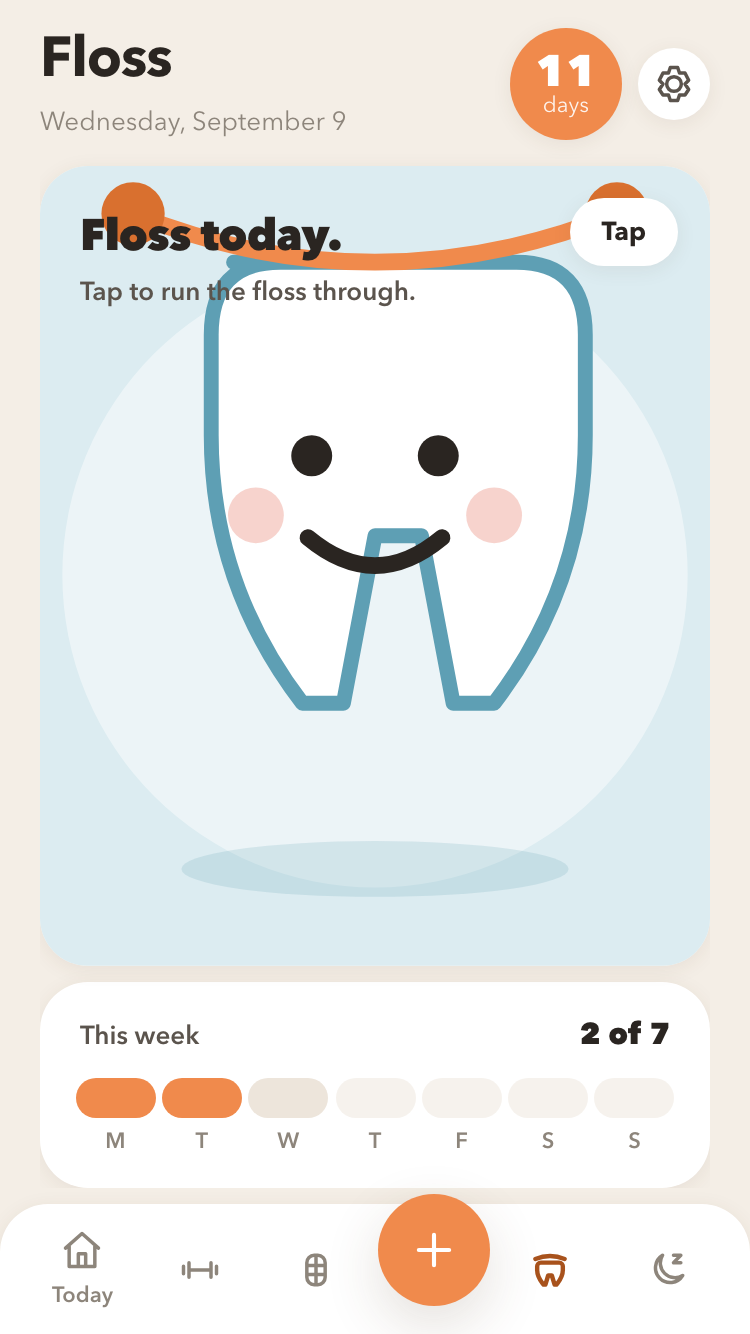
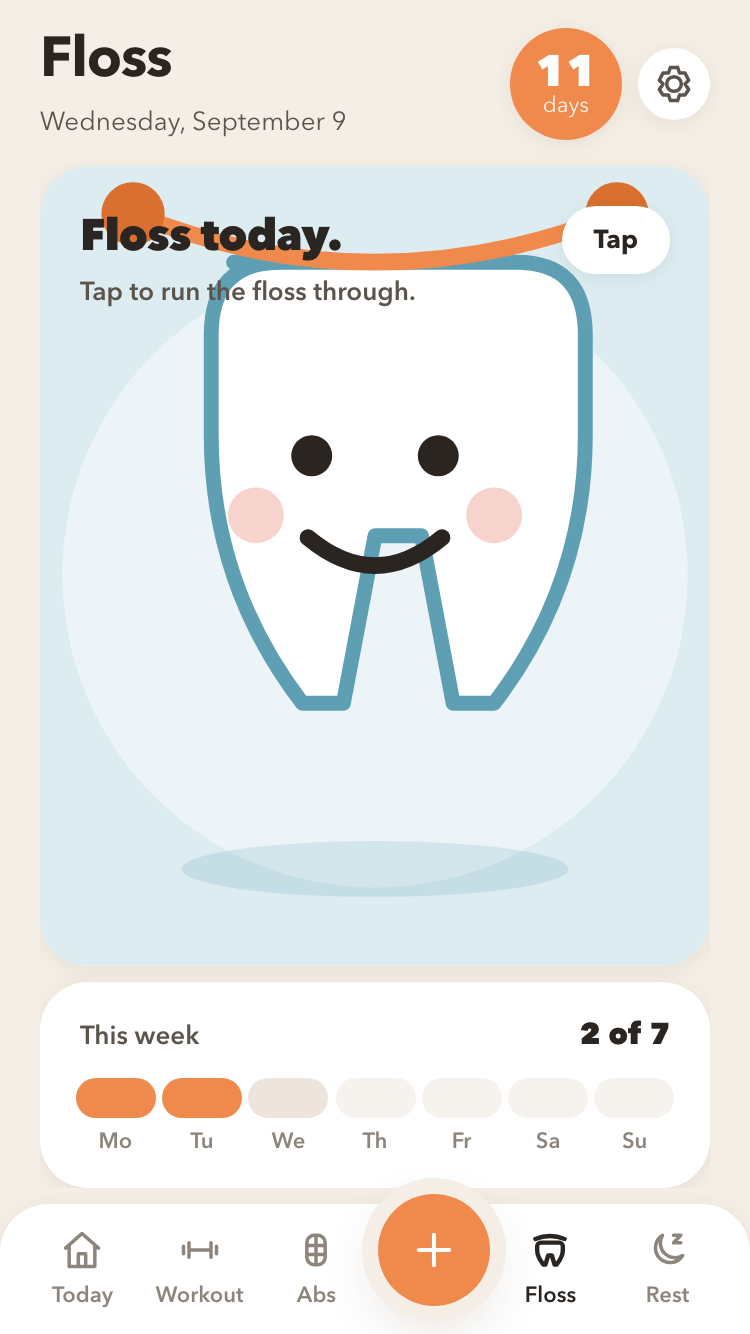
Answer the second round: connected limbs, one accent, days you can tell apart
A reviewer caught the lifter's arms floating clear of both the bar and the
shoulders; they now run from inside the torso to the grip and pass behind
the head. The week strip reads Mo Tu We Th Fr Sa Su, because M T W T F S S
repeats. Every tab carries its word again, the water plus joins the single
accent instead of introducing a lone blue, the raised button sits in a cut
of the bar, and the done badge clears the disc edge.

Claude-Session: https://claude.ai/code/session_01VWWXSJPjffuaUiM86s3vvD

diff --git a/app/globals.css b/app/globals.css
@@ -5,29 +5,29 @@ button,input,textarea,select{font:inherit}button{color:inherit;cursor:pointer;bo
 input,select,textarea{font-size:var(--t-md);min-height:var(--z-tap);width:100%;padding:var(--s-3) var(--s-4);border:var(--z-hairline) solid var(--c-line);border-radius:var(--r-md);background:var(--c-card);color:var(--c-ink)}input:focus,select:focus,textarea:focus{outline:var(--z-bw) solid var(--c-accent);outline-offset:var(--z-hairline)}label{display:block;font-size:var(--t-sm);font-weight:600;margin:var(--s-4) 0}label input,label select,label textarea{margin-top:var(--s-2)}textarea{resize:none;min-height:var(--z-bowl)}
 h1,h2,h3,p{margin:0}h1{font-size:var(--t-xxl);font-weight:700;line-height:1.1;letter-spacing:var(--ls-snug)}h2{font-size:var(--t-lg);font-weight:700;letter-spacing:var(--ls-normal)}p{font-size:var(--t-sm);line-height:1.55;color:var(--c-ink2)}small{font-size:var(--t-xs)}a{color:var(--c-accentInk)}
 .app-shell{width:min(100%,var(--z-shell));height:100dvh;max-height:var(--z-shellMax);margin:auto;background:var(--c-ground);display:flex;flex-direction:column;padding:calc(env(safe-area-inset-top) + var(--s-3)) var(--s-5) 0;position:relative;overflow:hidden}
-.topbar{display:flex;align-items:center;gap:var(--s-2);flex-shrink:0;min-height:var(--z-disc)}.topbar .gear{width:var(--z-cell);height:var(--z-cell);color:var(--c-ink2)}.topbar .gear.active{background:var(--c-ink);color:var(--c-card)}.topbar h1{overflow:hidden;text-overflow:ellipsis;white-space:nowrap;line-height:1.25}.topbar-copy{flex:1;min-width:0}.date{font-size:var(--t-sm);color:var(--c-muted);margin-top:var(--s-1)}
+.topbar{display:flex;align-items:center;gap:var(--s-2);flex-shrink:0;min-height:var(--z-disc)}.topbar .gear{width:var(--z-cell);height:var(--z-cell);color:var(--c-ink2)}.topbar .gear.active{background:var(--c-ink);color:var(--c-card)}.topbar h1{overflow:hidden;text-overflow:ellipsis;white-space:nowrap;line-height:1.25}.topbar-copy{flex:1;min-width:0}.date{font-size:var(--t-sm);color:var(--c-ink2);margin-top:var(--s-1)}
 .chip{display:inline-flex;align-items:center;gap:var(--s-1);background:var(--c-card);border-radius:var(--r-pill);padding:var(--s-2) var(--s-3) var(--s-2) var(--s-2);font-size:var(--t-sm);font-weight:600;color:var(--c-ink2);box-shadow:var(--sh-card)}.chip .mark{width:var(--s-5);height:var(--s-5)}
 .streak-badge{display:flex;flex-direction:column;align-items:center;justify-content:center;width:var(--z-disc);height:var(--z-disc);border-radius:50%;background:var(--c-accent);color:var(--c-card);line-height:1;flex-shrink:0;box-shadow:var(--sh-card)}.streak-badge strong{font-size:var(--t-xl);font-weight:800}.streak-badge span{font-size:var(--t-xs);opacity:.9}
 .zone-row{display:flex;align-items:center;justify-content:space-between;background:var(--c-accentSoft);color:var(--c-accentInk);padding:var(--s-2) var(--s-3);font-size:var(--t-sm);border-radius:var(--r-sm);flex-shrink:0;margin-top:var(--s-2)}
 .today-view,.habit-view,.progress-view,.you-view{min-height:0;flex:1;display:flex;flex-direction:column;gap:var(--s-3);padding-top:var(--s-3);overflow:hidden}
 .hero{position:relative;flex:1;min-height:var(--z-heroShort);max-height:var(--z-heroMax);border-radius:var(--r-lg);overflow:hidden;text-align:left;box-shadow:var(--sh-card);background:var(--c-butterSoft);flex-shrink:1}.hero .scene{position:absolute;inset:0;width:100%;height:100%}
 .hero-copy{position:absolute;left:var(--s-5);top:var(--s-5);right:var(--z-thumb);display:flex;flex-direction:column;gap:var(--s-1);color:var(--c-ink)}.hero-copy strong{font-size:var(--t-xl);font-weight:800;letter-spacing:var(--ls-snug)}.hero-copy span{font-size:var(--t-sm);font-weight:600;color:var(--c-ink2)}.hero.is-complete .hero-copy strong{font-size:var(--t-xxl)}
-.hero-tag{position:absolute;right:var(--s-4);top:var(--s-4);display:inline-flex;align-items:center;gap:var(--s-1);background:var(--c-card);color:var(--c-ink);border-radius:var(--r-pill);padding:var(--s-2) var(--s-3) var(--s-2) var(--s-2);font-size:var(--t-sm);font-weight:700;box-shadow:var(--sh-card)}.hero-tag .mark{width:var(--s-5);height:var(--s-5)}.hero.is-done .hero-tag{background:var(--c-accent);color:var(--c-card)}
+.hero-tag{position:absolute;right:var(--s-5);top:var(--s-5);display:inline-flex;align-items:center;gap:var(--s-1);background:var(--c-card);color:var(--c-ink);border-radius:var(--r-pill);padding:var(--s-2) var(--s-3) var(--s-2) var(--s-2);font-size:var(--t-sm);font-weight:700;box-shadow:var(--sh-card)}.hero-tag .mark{width:var(--s-5);height:var(--s-5)}.hero.is-done .hero-tag{background:var(--c-accent);color:var(--c-card)}
 .hero-back{position:absolute;left:var(--s-4);bottom:var(--s-4);background:var(--c-card);border-radius:var(--r-pill);padding:var(--s-2) var(--s-3);font-size:var(--t-sm);font-weight:700}
 .walker{transition:transform 1.6s cubic-bezier(.4,0,.2,1)}.walker .pulse{transform-box:fill-box;transform-origin:center;animation:pulse 2.4s ease-out infinite}.moving .walker circle:not(.pulse){transform-box:fill-box;animation:hop .5s ease-in-out infinite}
-.discs{display:grid;grid-template-columns:repeat(4,minmax(0,1fr));gap:var(--s-2);flex-shrink:0}.disc-habit{display:flex;flex-direction:column;align-items:center;gap:var(--s-2);font-size:var(--t-sm);font-weight:600;color:var(--c-ink2)}.disc-art{position:relative;display:grid;place-items:center;width:var(--z-disc);height:var(--z-disc);border-radius:50%;background:var(--c-card);box-shadow:var(--sh-card);transition:background .25s,transform .25s}.disc-habit:active .disc-art{transform:scale(.94)}.disc-art .mark{width:var(--s-7);height:var(--s-7)}.disc-check{position:absolute;right:calc(-1 * var(--s-1));bottom:calc(-1 * var(--s-1));display:grid;place-items:center;width:var(--s-5);height:var(--s-5);border-radius:50%;background:var(--c-accent);color:var(--c-card);border:var(--z-bw) solid var(--c-ground);opacity:0;transform:scale(.4);transition:opacity .2s,transform .25s}.is-done .disc-check{opacity:1;transform:scale(1)}.disc-habit.is-done{color:var(--c-ink)}.disc-habit.is-done .disc-art{background:var(--c-accentSoft)}.disc-habit.rest.is-done .disc-art{background:var(--c-lilacSoft)}.disc-habit.rest.is-done .disc-check{background:var(--c-lilac)}.disc-habit:disabled{opacity:.5}
-.pair{display:grid;grid-template-columns:1fr 1.25fr;gap:var(--s-3);flex:0 0 auto}.card-copy{display:flex;flex-direction:column;gap:var(--s-1);min-height:0}
+.discs{display:grid;grid-template-columns:repeat(4,minmax(0,1fr));gap:var(--s-2);flex-shrink:0}.disc-habit{display:flex;flex-direction:column;align-items:center;gap:var(--s-2);font-size:var(--t-sm);font-weight:600;color:var(--c-ink2)}.disc-art{position:relative;display:grid;place-items:center;width:var(--z-disc);height:var(--z-disc);border-radius:50%;background:var(--c-card);box-shadow:var(--sh-card);transition:background .25s,transform .25s}.disc-habit:active .disc-art{transform:scale(.94)}.disc-art .mark{width:var(--s-7);height:var(--s-7)}.disc-check{position:absolute;right:calc(-1 * var(--s-2));bottom:calc(-1 * var(--s-2));display:grid;place-items:center;width:var(--s-5);height:var(--s-5);border-radius:50%;background:var(--c-accent);color:var(--c-card);border:var(--z-bw) solid var(--c-ground);opacity:0;transform:scale(.4);transition:opacity .2s,transform .25s}.is-done .disc-check{opacity:1;transform:scale(1)}.disc-habit.is-done{color:var(--c-ink)}.disc-habit.is-done .disc-art{background:var(--c-accentSoft)}.disc-habit.rest.is-done .disc-art{background:var(--c-lilacSoft)}.disc-habit.rest.is-done .disc-check{background:var(--c-lilac)}.disc-habit:disabled{opacity:.5}
+.pair{display:grid;grid-template-columns:1fr 1.18fr;gap:var(--s-3);flex:0 0 auto}.card-copy{display:flex;flex-direction:column;gap:var(--s-1);min-height:0}
 .card{background:var(--c-card);border-radius:var(--r-lg);box-shadow:var(--sh-card)}
-.pair .card{position:relative;overflow:hidden;text-align:left;padding:var(--s-4);display:flex;flex-direction:column;gap:var(--s-1)}.card-main{display:flex;flex-direction:column;gap:var(--s-1);text-align:left;flex:1;min-height:0}
+.pair .card{position:relative;overflow:hidden;text-align:left;padding:var(--s-4);display:flex;flex-direction:column;gap:var(--s-1)}.pair>*{min-height:0}.card-main{display:flex;flex-direction:column;gap:var(--s-1);text-align:left;flex:1;min-height:0}
 .card-art{display:grid;place-items:center;flex:1 1 var(--z-tileArt);min-height:var(--z-disc);max-height:var(--z-tileArt);border-radius:var(--r-md);margin-bottom:var(--s-2)}.water .card-art{background:var(--c-skySoft)}.food .card-art{background:var(--c-accentSoft)}.glass{width:auto;height:100%;max-height:var(--z-tileArt);padding:var(--s-1) 0}.bowl{width:auto;height:100%;max-height:var(--z-tileArt);padding:var(--s-1) 0}
 .card-title{font-size:var(--t-md);font-weight:700}.card-value{font-size:var(--t-sm);color:var(--c-muted);margin-bottom:var(--s-1)}.card-value strong{display:block;font-size:var(--t-xl);font-weight:800;color:var(--c-ink);letter-spacing:var(--ls-snug)}.pair .is-done .card-title{color:var(--c-sageDeep)}
-.card-steps{display:flex;gap:var(--s-2);justify-content:space-between;margin-top:auto;padding-top:var(--s-2)}.card-cta{display:flex;align-items:center;justify-content:center;gap:var(--s-1);margin-top:auto;height:var(--z-minus);border-radius:var(--r-pill);background:var(--c-accentSoft);color:var(--c-accentInk);font-size:var(--t-sm);font-weight:700}.card-step{display:grid;place-items:center;flex:1;height:var(--z-minus);border-radius:var(--r-pill);background:var(--c-ground);color:var(--c-ink2)}.card-step.is-add{background:var(--c-sky);color:var(--c-card)}
+.card-steps{display:flex;gap:var(--s-2);justify-content:space-between;margin-top:auto;padding-top:var(--s-3);height:calc(var(--z-minus) + var(--s-3))}.card-cta{display:flex;align-items:center;justify-content:center;gap:var(--s-1);margin-top:auto;flex-shrink:0;height:var(--z-minus);border-radius:var(--r-pill);background:var(--c-accentSoft);color:var(--c-accentInk);font-size:var(--t-sm);font-weight:700}.card-step{display:grid;place-items:center;flex:1;height:var(--z-minus);border-radius:var(--r-pill);background:var(--c-ground);color:var(--c-ink2)}.card-step.is-add{background:var(--c-accent);color:var(--c-card)}
 .liquid{transition:transform .9s cubic-bezier(.4,0,.2,1)}
 .meter{display:block;margin-top:var(--s-1)}.meter-head{display:flex;justify-content:space-between;font-size:var(--t-xs);font-weight:600;color:var(--c-ink2);margin-bottom:var(--s-1)}.meter-bar{display:block;position:relative;height:var(--z-meter);border-radius:var(--r-pill);background:var(--c-ground);overflow:hidden}.meter-fill{position:absolute;left:0;top:0;bottom:0;border-radius:var(--r-pill);background:var(--c-accent);transition:width .7s cubic-bezier(.4,0,.2,1)}.meter-range{position:absolute;top:0;bottom:0;background:var(--c-sageSoft)}.meter.is-done .meter-fill{background:var(--c-sage)}
 .home-footer{margin-top:auto;display:flex;align-items:center;justify-content:space-between;font-size:var(--t-sm);color:var(--c-muted);padding:0 var(--s-1);flex-shrink:0}
 .text-button{font-size:var(--t-sm);font-weight:600;color:var(--c-accentInk);padding:var(--s-2) var(--s-1);min-height:var(--s-7)}
-.bottom-nav{display:flex;align-items:center;justify-content:space-around;flex-shrink:0;background:var(--c-card);margin:var(--s-2) calc(-1 * var(--s-5)) 0;padding:var(--s-2) var(--s-3) calc(env(safe-area-inset-bottom) + var(--s-2));border-radius:var(--r-lg) var(--r-lg) 0 0;box-shadow:var(--sh-card);min-height:var(--z-nav)}.bottom-nav .icon-tab{padding:var(--s-3) var(--s-2)}.bottom-nav .icon-tab.active{color:var(--c-accentInk)}.bottom-nav button{display:flex;flex-direction:column;align-items:center;gap:var(--s-1);min-width:var(--z-disc);color:var(--c-muted);font-size:var(--t-xs);font-weight:600;padding:var(--s-1)}.bottom-nav button.active{color:var(--c-ink)}.bottom-nav button.active svg{stroke-width:2.4}
-.nav-add{display:grid;place-items:center;width:var(--z-add);height:var(--z-add);border-radius:50%;background:var(--c-accent);color:var(--c-card);box-shadow:var(--sh-float);margin-top:calc(-1 * var(--s-5))}.bottom-nav .nav-add{display:grid;place-items:center;padding:0;min-width:0;color:var(--c-card)}.bottom-nav .nav-add svg{display:block}
+.bottom-nav{display:flex;align-items:center;justify-content:space-around;flex-shrink:0;background:var(--c-card);margin:var(--s-2) calc(-1 * var(--s-5)) 0;padding:var(--s-2) var(--s-3) calc(env(safe-area-inset-bottom) + var(--s-2));border-radius:var(--r-lg) var(--r-lg) 0 0;box-shadow:var(--sh-card);min-height:var(--z-nav)}.bottom-nav button{display:flex;flex-direction:column;align-items:center;gap:var(--s-1);min-width:var(--z-disc);color:var(--c-muted);font-size:var(--t-xs);font-weight:600;padding:var(--s-1)}.bottom-nav button.active{color:var(--c-ink)}.bottom-nav button.active svg{stroke-width:2.4}
+.nav-add{display:grid;place-items:center;width:var(--z-add);height:var(--z-add);border-radius:50%;background:var(--c-accent);color:var(--c-card);box-shadow:0 0 0 var(--s-2) var(--c-ground),var(--sh-float);margin-top:calc(-1 * var(--s-5))}.bottom-nav .nav-add{display:grid;place-items:center;padding:0;min-width:0;color:var(--c-card)}.bottom-nav .nav-add svg{display:block}
 .progress-view,.you-view{padding-bottom:var(--s-2)}.progress-view .streak-card{flex:1 1 auto;min-height:0;display:flex;flex-direction:column;overflow:hidden}.progress-view .calendar-body{flex:1;min-height:0;display:flex;flex-direction:column;justify-content:center}.you-view{gap:var(--s-4);justify-content:flex-start}
 .progress-hero{position:relative;flex:0 1 var(--z-sceneShort);min-height:var(--z-bars);border-radius:var(--r-lg);overflow:hidden;flex-shrink:0;box-shadow:var(--sh-card)}.progress-hero .scene{position:absolute;inset:0;width:100%;height:100%}.progress-hero::after{content:'';position:absolute;inset:0;background:linear-gradient(100deg,var(--c-card) 4%,transparent 62%);opacity:.72;pointer-events:none}.progress-hero .big-number{position:absolute;left:var(--s-5);top:var(--s-4);text-align:left;z-index:1}.progress-hero .big-number span{margin-top:var(--s-1)}.big-number{text-align:center}.big-number strong{display:block;font-size:var(--t-hero);font-weight:800;line-height:1;letter-spacing:var(--ls-tight)}.big-number span{display:block;margin-top:var(--s-2);font-size:var(--t-sm);color:var(--c-ink2)}
 .streak-card,.trend-card{padding:var(--s-5)}.trend-card p{font-size:var(--t-xs);color:var(--c-muted);margin-top:var(--s-1)}
@@ -87,7 +87,7 @@ h1,h2,h3,p{margin:0}h1{font-size:var(--t-xxl);font-weight:700;line-height:1.1;le
 .stage-copy strong{font-size:var(--t-xl);font-weight:800;letter-spacing:var(--ls-snug);color:var(--c-ink)}
 .stage-copy span{font-size:var(--t-sm);font-weight:600;color:var(--c-ink2)}
 .stage.rest .stage-copy strong,.stage.rest .stage-copy span{color:var(--c-card)}
-.stage-tag{position:absolute;right:var(--s-4);top:var(--s-4);display:inline-flex;align-items:center;gap:var(--s-1);background:var(--c-card);color:var(--c-ink);border-radius:var(--r-pill);padding:var(--s-2) var(--s-4);font-size:var(--t-sm);font-weight:700;box-shadow:var(--sh-card)}
+.stage-tag{position:absolute;right:var(--s-5);top:var(--s-5);display:inline-flex;align-items:center;gap:var(--s-1);background:var(--c-card);color:var(--c-ink);border-radius:var(--r-pill);padding:var(--s-2) var(--s-4);font-size:var(--t-sm);font-weight:700;box-shadow:var(--sh-card)}
 .stage.is-done .stage-tag{background:var(--c-accent);color:var(--c-card)}.stage.rest.is-done .stage-tag{background:var(--c-lilac)}
 .stage:disabled{opacity:1}.stage:disabled .stage-tag{background:var(--c-ground2);color:var(--c-muted)}
 .week-strip{flex-shrink:0;background:var(--c-card);border-radius:var(--r-lg);box-shadow:var(--sh-card);padding:var(--s-4) var(--s-5)}

diff --git a/components/App.tsx b/components/App.tsx
@@ -11,7 +11,7 @@ type Change=Operation extends infer O?O extends Operation?Omit<O,'id'|'at'|'day'
 const todayZone=()=>Intl.DateTimeFormat().resolvedOptions().timeZone;
 const format=(n:number)=>Math.round(n).toLocaleString();
 const litres=(ml:number)=>(ml/1000).toFixed(2).replace(/\.?0+$/,'');
-const weekdays=['Mon','Tue','Wed','Thu','Fri','Sat','Sun'];
+const weekdays=['Mon','Tue','Wed','Thu','Fri','Sat','Sun'];const weekInitials=['Mo','Tu','We','Th','Fr','Sa','Su'];
 export default function App(){
  const store=useStore();const {state}=store;
  const [now,setNow]=useState(()=>new Date());const [tab,setTab]=useState('today');const [selected,setSelected]=useState<string|null>(null);
@@ -64,7 +64,7 @@ export default function App(){
   {tab==='today'?<section className="today-view">
    <button className={`hero ${done.walk?'is-done':''} ${pulse.walk?'moving':''} ${complete?'is-complete':''}`} aria-label={done.walk?'Undo walk':'Log walk'} aria-pressed={done.walk} onClick={()=>habitTap('walk')}>
     <Hills phase={day.rest?'night':phase} walked={done.walk} progress={count/habits.length} celebrate={complete&&!selected}/>
-    <span className="hero-copy"><strong>{complete&&!selected?'Every one.':day.rest?'Resting today.':done.walk?'Walked.':'A walk today.'}</strong><span>{complete&&!selected?`All ${habits.length} habits, all done.`:day.rest?'The streak stays.':done.walk?'Tap again to undo.':'Tap when you\u2019re back.'}</span></span>
+    <span className="hero-copy"><strong>{complete&&!selected?'Every one.':day.rest?'Resting today.':done.walk?'Walked.':'A walk today.'}</strong><span>{complete&&!selected?`All ${habits.length} habits, all done.`:day.rest?'The streak stays.':`${count} of ${habits.length} done today`}</span></span>
     <span className="hero-tag">{done.walk?<><Icon name="check" size={14}/>Walk</>:<><Mark name="walk"/>Walk</>}</span>
     {selected&&<span className="hero-back">{`${count} of ${habits.length}`}</span>}
    </button>
@@ -96,9 +96,9 @@ export default function App(){
     onToggle={()=>tab==='rest'?restTap():habitTap(tab as Habit)}/>}
   {toast&&<div className="toast" role="status"><span>{toast.text}</span>{toast.undo&&<button onClick={()=>{toast.undo!();setToast(null);}}>Undo</button>}</div>}
   <nav className="bottom-nav" aria-label="Main navigation">
-   {[['today','home','Today'],['workout','workout','Workout'],['abs','abs','Abs']].map(([value,icon,label])=><button key={value} className={`${tab===value?'active':''} ${value==='today'?'':'icon-tab'}`} aria-label={label} aria-current={tab===value?'page':undefined} onClick={()=>{setTab(value);setSelected(null);}}><Icon name={icon}/>{value==='today'&&<span>{label}</span>}</button>)}
+   {[['today','home','Today'],['workout','workout','Workout'],['abs','abs','Abs']].map(([value,icon,label])=><button key={value} className={tab===value?'active':''} aria-label={label} aria-current={tab===value?'page':undefined} onClick={()=>{setTab(value);setSelected(null);}}><Icon name={icon}/><span>{label}</span></button>)}
    <button className="nav-add" aria-label="Log a meal" onClick={()=>{setEditMeal(null);setPhoto(null);setModal('meal');}}><Icon name="plus" size={26}/></button>
-   {[['floss','floss','Floss'],['rest','rest','Rest']].map(([value,icon,label])=><button key={value} className={`icon-tab ${tab===value?'active':''}`} aria-label={label} aria-current={tab===value?'page':undefined} onClick={()=>{setTab(value);setSelected(null);}}><Icon name={icon}/></button>)}
+   {[['floss','floss','Floss'],['rest','rest','Rest']].map(([value,icon,label])=><button key={value} className={tab===value?'active':''} aria-label={label} aria-current={tab===value?'page':undefined} onClick={()=>{setTab(value);setSelected(null);}}><Icon name={icon}/><span>{label}</span></button>)}
   </nav>
   <input className="sr-only" ref={file} aria-label="Photograph a meal" type="file" accept="image/*" capture="environment" onChange={e=>{const f=e.target.files?.[0];if(f){setPhoto(f);setEditMeal(null);setModal('meal');}e.target.value='';}}/>
   {modal&&<Sheet title={modal==='camera'?'Photo':modal==='meal'?'Food':modal==='meals'?'Today’s food':modal==='rest'?'Rest day':modal==='rescue'?'Rescue this day':modal==='weight'?'Weigh in':modal==='targets'?'Daily targets':modal==='setup'?'Your details':modal==='zone'?'Timezone':modal==='lock'?'Lock this device?':'How targets are set'} onClose={()=>{setModal(null);setPhoto(null);setEditMeal(null);}}>
@@ -124,7 +124,7 @@ function HabitTab({habit,done,active,rests,week,past,onToggle}:{habit:'workout'|
   </button>
   <div className="week-strip">
    <span className="week-strip-head">This week<b>{kept} of 7</b></span>
-   <div className="week-dots">{week.map(d=><span key={d.day} className={`week-dot ${d.done?'is-done':''} ${d.future?'is-future':''}`}><i/><small>{weekdays[(dayDiff(weekStart(d.day),d.day)+7)%7].slice(0,1)}</small></span>)}</div>
+   <div className="week-dots">{week.map(d=><span key={d.day} className={`week-dot ${d.done?'is-done':''} ${d.future?'is-future':''}`}><i/><small>{weekInitials[(dayDiff(weekStart(d.day),d.day)+7)%7]}</small></span>)}</div>
   </div>
  </section>;
 }
@@ -186,8 +186,8 @@ function Progress({state,today,onOpen,onRescue}:{state:State;today:string;onOpen
    <div className="segmented">{[['week','Week'],['month','Month'],['trends','Trends']].map(([value,text])=><button key={value} className={mode===value?'active':''} onClick={()=>setMode(value)}>{text}</button>)}</div>
    {mode==='trends'?<Trends state={state} today={today}/>:<>
    <div className="calendar-heading"><button aria-label="Previous period" onClick={()=>setAnchor(addDays(first,-1))}><Icon name="back" size={18}/></button><h2>{heading}</h2><button aria-label="Next period" disabled={entries.at(-1)!>=today} onClick={()=>setAnchor(addDays(entries.at(-1)!,1))}><Icon name="arrow" size={18}/></button></div>
-   <div className="calendar-body">{mode==='week'?<div className="bars">{entries.map((d,i)=>{const n=d>today?0:Object.values(completion(state.days[d])).filter(Boolean).length;const kept=isKept(state.days[d]);return <button key={d} disabled={d>today} aria-label={label(d)} className={`bar ${d===today?'is-today':''} ${kept?'is-kept':''} ${d>today?'is-future':''} ${detail===d?'selected':''}`} onClick={()=>setDetail(d)}><span className="bar-track">{n>0&&<span className="bar-fill" style={{height:`${Math.max(16,n/habits.length*100)}%`}}><b>{n}</b></span>}</span><small>{weekdays[i].slice(0,1)}</small></button>;})}</div>
-   :<div className="calendar-grid">{['M','T','W','T','F','S','S'].map((d,i)=><span key={i}>{d}</span>)}{Array.from({length:(new Date(first+'T12:00Z').getUTCDay()+6)%7},(_,i)=><i key={'blank'+i}/>)}{entries.map(d=><button key={d} disabled={d>today} aria-label={label(d)} className={`${detail===d?'selected':''} ${isKept(state.days[d])?'kept':d<today&&d>=start?'broken':''} ${d===today?'today':''}`} onClick={()=>setDetail(d)}><strong>{Number(d.slice(-2))}</strong><small>{state.days[d]?.rescued?'\u2661':state.days[d]?.rest?'\u263e':''}{state.days[d]?.backfilled?'*':''}</small></button>)}</div>}</div>
+   <div className="calendar-body">{mode==='week'?<div className="bars">{entries.map((d,i)=>{const n=d>today?0:Object.values(completion(state.days[d])).filter(Boolean).length;const kept=isKept(state.days[d]);return <button key={d} disabled={d>today} aria-label={label(d)} className={`bar ${d===today?'is-today':''} ${kept?'is-kept':''} ${d>today?'is-future':''} ${detail===d?'selected':''}`} onClick={()=>setDetail(d)}><span className="bar-track">{n>0&&<span className="bar-fill" style={{height:`${Math.max(16,n/habits.length*100)}%`}}><b>{n}</b></span>}</span><small>{weekInitials[i]}</small></button>;})}</div>
+   :<div className="calendar-grid">{weekInitials.map((d,i)=><span key={i}>{d}</span>)}{Array.from({length:(new Date(first+'T12:00Z').getUTCDay()+6)%7},(_,i)=><i key={'blank'+i}/>)}{entries.map(d=><button key={d} disabled={d>today} aria-label={label(d)} className={`${detail===d?'selected':''} ${isKept(state.days[d])?'kept':d<today&&d>=start?'broken':''} ${d===today?'today':''}`} onClick={()=>setDetail(d)}><strong>{Number(d.slice(-2))}</strong><small>{state.days[d]?.rescued?'\u2661':state.days[d]?.rest?'\u263e':''}{state.days[d]?.backfilled?'*':''}</small></button>)}</div>}</div>
    <div className="day-detail"><p className="date">{new Intl.DateTimeFormat('en',{weekday:'long',month:'long',day:'numeric',timeZone:'UTC'}).format(new Date(detail+'T12:00:00Z'))}{entry?.backfilled?' \u00b7 backfilled':''}{entry?.rescued?' \u00b7 rescued':''}</p><h2>{isComplete(entry)?'Complete.':entry?.rest?'Rest day.':entry?.rescued?'Rescued.':detail===today?'In progress.':!tracked?'Before you started.':'A day to rescue.'}</h2><p>{!tracked?'Backfill it if you like.':!isComplete(entry)?`${detail===today?'Left today':'Not checked'}: ${missing(entry).map(h=>names[h]).join(', ')}.`:`All ${habits.length} habits.`}</p></div>
    <div className="detail-actions"><button className="primary" onClick={()=>onOpen(detail)}>{detail===today?'Open today':'Backfill this day'}</button>{detail<today&&!isKept(entry)&&<button className="secondary" onClick={()=>onRescue(detail)}>Rescue day</button>}</div>
    </>}

diff --git a/components/Scenes.tsx b/components/Scenes.tsx
@@ -72,7 +72,7 @@ export function Bowl({full=false,eating=false,level=0}:{full?:boolean;eating?:bo
 export function Mark({name}:{name:'workout'|'abs'|'floss'|'walk'|'water'|'food'|'rest'|'rescue'|'scale'}){
  const marks={
   workout:<><rect x="8" y="20" width="32" height="8" rx="4" fill={c.accentDeep}/><rect x="4" y="14" width="8" height="20" rx="3" fill={c.ink2}/><rect x="36" y="14" width="8" height="20" rx="3" fill={c.ink2}/><rect x="0" y="18" width="5" height="12" rx="2.5" fill={c.ink2}/><rect x="43" y="18" width="5" height="12" rx="2.5" fill={c.ink2}/></>,
-  abs:<><rect x="6" y="30" width="36" height="8" rx="4" fill={c.accentSoft}/><path d="M14 30q2-16 12-16t12 16" fill={c.accent}/><circle cx="26" cy="12" r="6" fill={c.ink2}/><path d="M20 30h12" stroke={c.card} strokeWidth="2" strokeLinecap="round"/></>,
+  abs:<><rect x="2" y="34" width="44" height="8" rx="4" fill={c.accentSoft}/><path d="M40 34q6-18-6-18H22q-8 0-8 8v10z" fill={c.accent}/><circle cx="12" cy="22" r="8" fill={c.ink2}/><path d="M28 16q8 2 12 10" stroke={c.accentDeep} strokeWidth="4" strokeLinecap="round" fill="none"/></>,
   floss:<><path d="M14 8h20q6 0 6 6v10q0 12-8 22h-3l-3-14h-4l-3 14h-3q-8-10-8-22V14q0-6 6-6z" fill={c.accentSoft} stroke={c.ink2} strokeWidth="2"/><path d="M6 30c8-6 28-6 36 0" stroke={c.accent} strokeWidth="2.5" strokeLinecap="round" fill="none"/><circle cx="6" cy="30" r="3.5" fill={c.accent}/><circle cx="42" cy="30" r="3.5" fill={c.accent}/></>,
   walk:<><path d="M12 30q0-8 6-8t6 8v6q0 6-6 6t-6-6z" fill={c.accent}/><path d="M26 16q0-8 6-8t6 8v6q0 6-6 6t-6-6z" fill={c.accentDeep}/><circle cx="13" cy="17" r="2.5" fill={c.accent}/><circle cx="18" cy="15" r="2.5" fill={c.accent}/><circle cx="27" cy="3" r="2.5" fill={c.accentDeep}/><circle cx="32" cy="1.5" r="2.5" fill={c.accentDeep}/></>,
   water:<path d="M24 4S8 22 8 31a16 16 0 0 0 32 0c0-9-16-27-16-27z" fill={c.sky}/>,
@@ -103,18 +103,18 @@ const Plant=({x,y,s=1}:{x:number;y:number;s?:number})=><g transform={`translate(
 export function Gym({done=false,active=false}:{done?:boolean;active?:boolean}){
  return <svg className={`scene gym ${done?'is-done':''} ${active?'is-active':''}`} viewBox="0 0 360 640" preserveAspectRatio="xMidYMax slice" aria-hidden="true">
   <rect width="360" height="640" fill={c.butterSoft}/>
-  <Window x={232} y={172}/>
+  <g className="gym-clock"><circle cx="180" cy="150" r="38" fill={c.card}/><circle cx="180" cy="150" r="38" fill="none" stroke={c.cocoaSoft} strokeWidth="7"/><path d="M180 128v24l16 10" stroke={c.ink2} strokeWidth="6" strokeLinecap="round" strokeLinejoin="round" fill="none"/></g>
   <rect x="0" y="556" width="360" height="84" fill={c.cocoaSoft}/><rect x="0" y="556" width="360" height="8" fill={c.cocoa} opacity=".2"/>
   <Plant x={44} y={556} s={1.05}/>
   <g opacity=".9"><rect x="288" y="524" width="54" height="12" rx="6" fill={c.cocoa} opacity=".5"/><circle cx="292" cy="530" r="14" fill={c.ink2}/><circle cx="338" cy="530" r="14" fill={c.ink2}/></g>
   <ellipse cx="180" cy="558" rx="78" ry="11" fill={c.cocoa} opacity=".2"/>
   <g className="lifter">
-   <rect x="148" y="466" width="22" height="92" rx="11" fill={c.ink2}/><rect x="190" y="466" width="22" height="92" rx="11" fill={c.ink2}/>
+   <g className="lift-arms"><rect x="138" y="292" width="19" height="150" rx="9" fill={c.accentDeep}/><rect x="203" y="292" width="19" height="150" rx="9" fill={c.accentDeep}/></g>
+   <rect x="148" y="452" width="22" height="106" rx="11" fill={c.ink2}/><rect x="190" y="452" width="22" height="106" rx="11" fill={c.ink2}/>
    <rect x="146" y="368" width="68" height="118" rx="32" fill={c.accent}/>
    <circle cx="180" cy="338" r="31" fill={c.cocoa}/>
    <circle cx="170" cy="334" r="4" fill={c.card}/><circle cx="192" cy="334" r="4" fill={c.card}/>
    <path d="M170 350q10 7 20 0" stroke={c.card} strokeWidth="4" strokeLinecap="round" fill="none"/>
-   <g className="lift-arms"><rect x="120" y="296" width="20" height="112" rx="10" fill={c.accentDeep}/><rect x="220" y="296" width="20" height="112" rx="10" fill={c.accentDeep}/></g>
    <g className="barbell"><rect x="60" y="286" width="240" height="16" rx="8" fill={c.ink2}/>
     <rect x="52" y="258" width="26" height="72" rx="11" fill={c.accentDeep}/><rect x="282" y="258" width="26" height="72" rx="11" fill={c.accentDeep}/>
     <rect x="86" y="270" width="17" height="48" rx="8" fill={c.ink}/><rect x="257" y="270" width="17" height="48" rx="8" fill={c.ink}/></g>

diff --git a/public/sw.js b/public/sw.js
@@ -1,4 +1,4 @@
-const VERSION='flaccid75-shell-7aa61f5d6847';
+const VERSION='flaccid75-shell-daf3347a26f8';
 self.addEventListener('install',event=>{self.skipWaiting();event.waitUntil(caches.open(VERSION).then(async cache=>{await cache.addAll(['/','/manifest.webmanifest','/icon-192.png','/icon-512.png','/apple-touch-icon.png','/icon.svg','/icon-maskable.png','/splash-1170x2532.png']);const response=await cache.match('/');const html=await response.text();const assets=[...new Set([...html.matchAll(/(?:src|href)="([^" ]+\.(?:js|css)(?:\?[^" ]*)?)"/g)].map(m=>m[1]))].filter(x=>x.startsWith('/assets/'));await cache.addAll(assets);}));});
 self.addEventListener('activate',event=>{event.waitUntil((async()=>{for(const key of await caches.keys())if(key.startsWith('flaccid75-')&&key!==VERSION)await caches.delete(key);await self.clients.claim();})());});
 self.addEventListener('fetch',event=>{const request=event.request;const url=new URL(request.url);if(request.method!=='GET'||url.origin!==self.location.origin||url.pathname.startsWith('/api/'))return;
